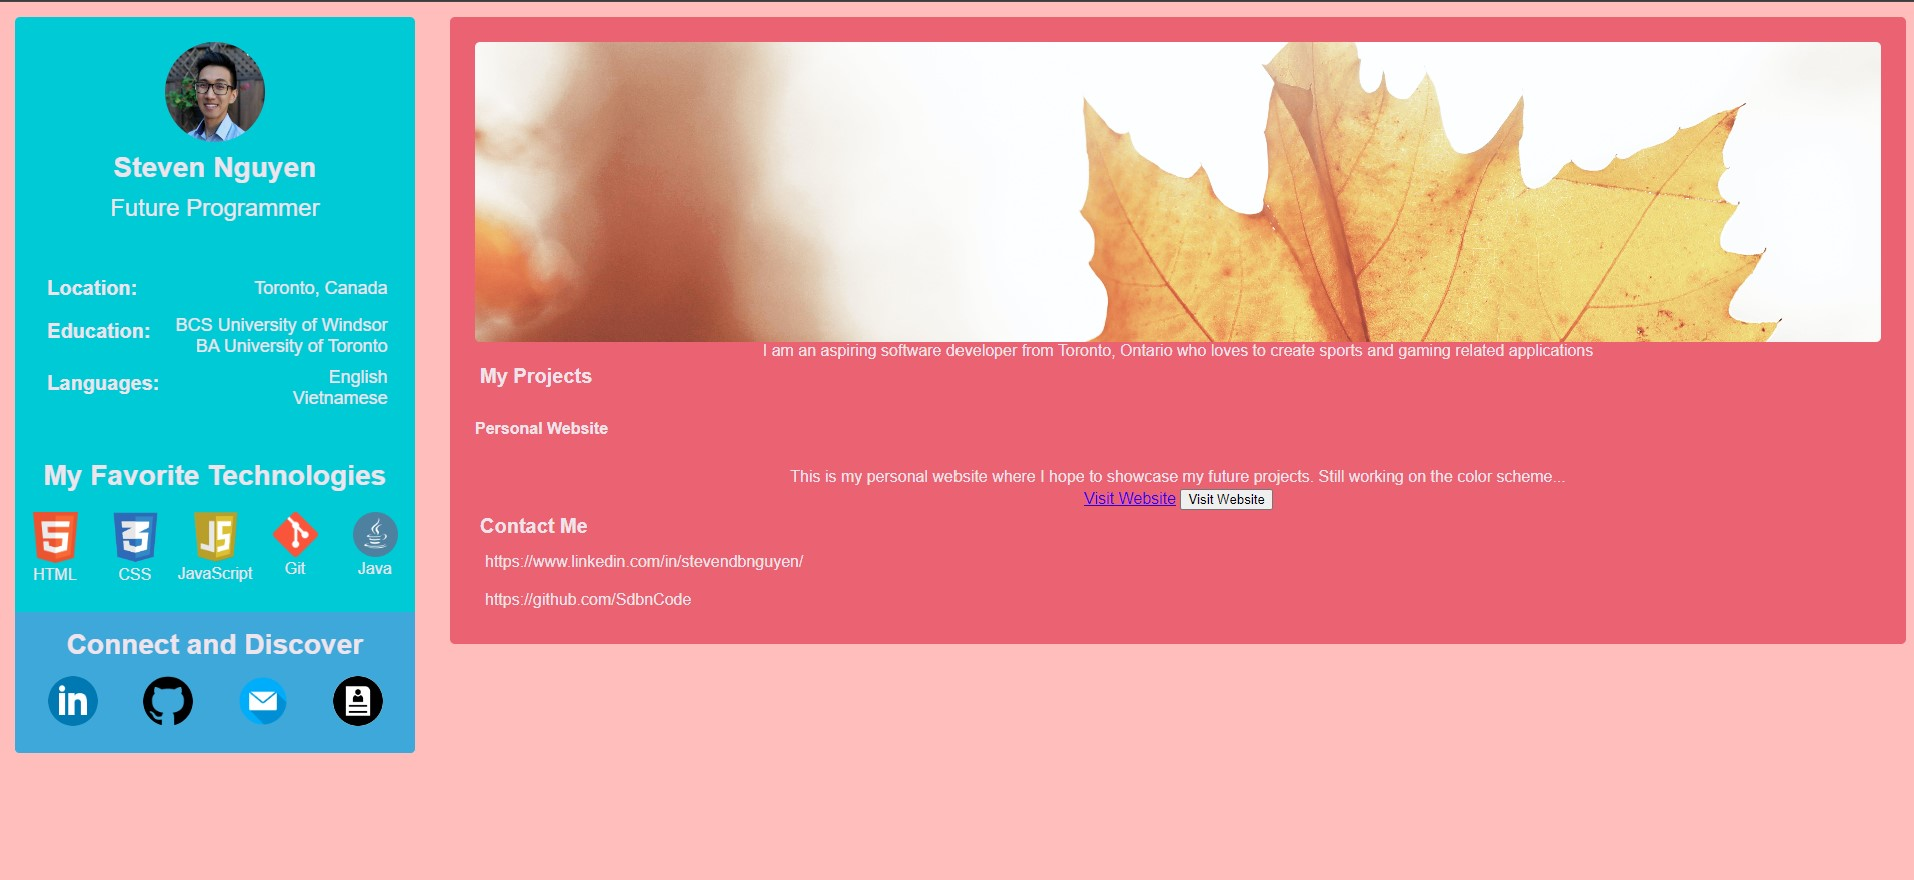
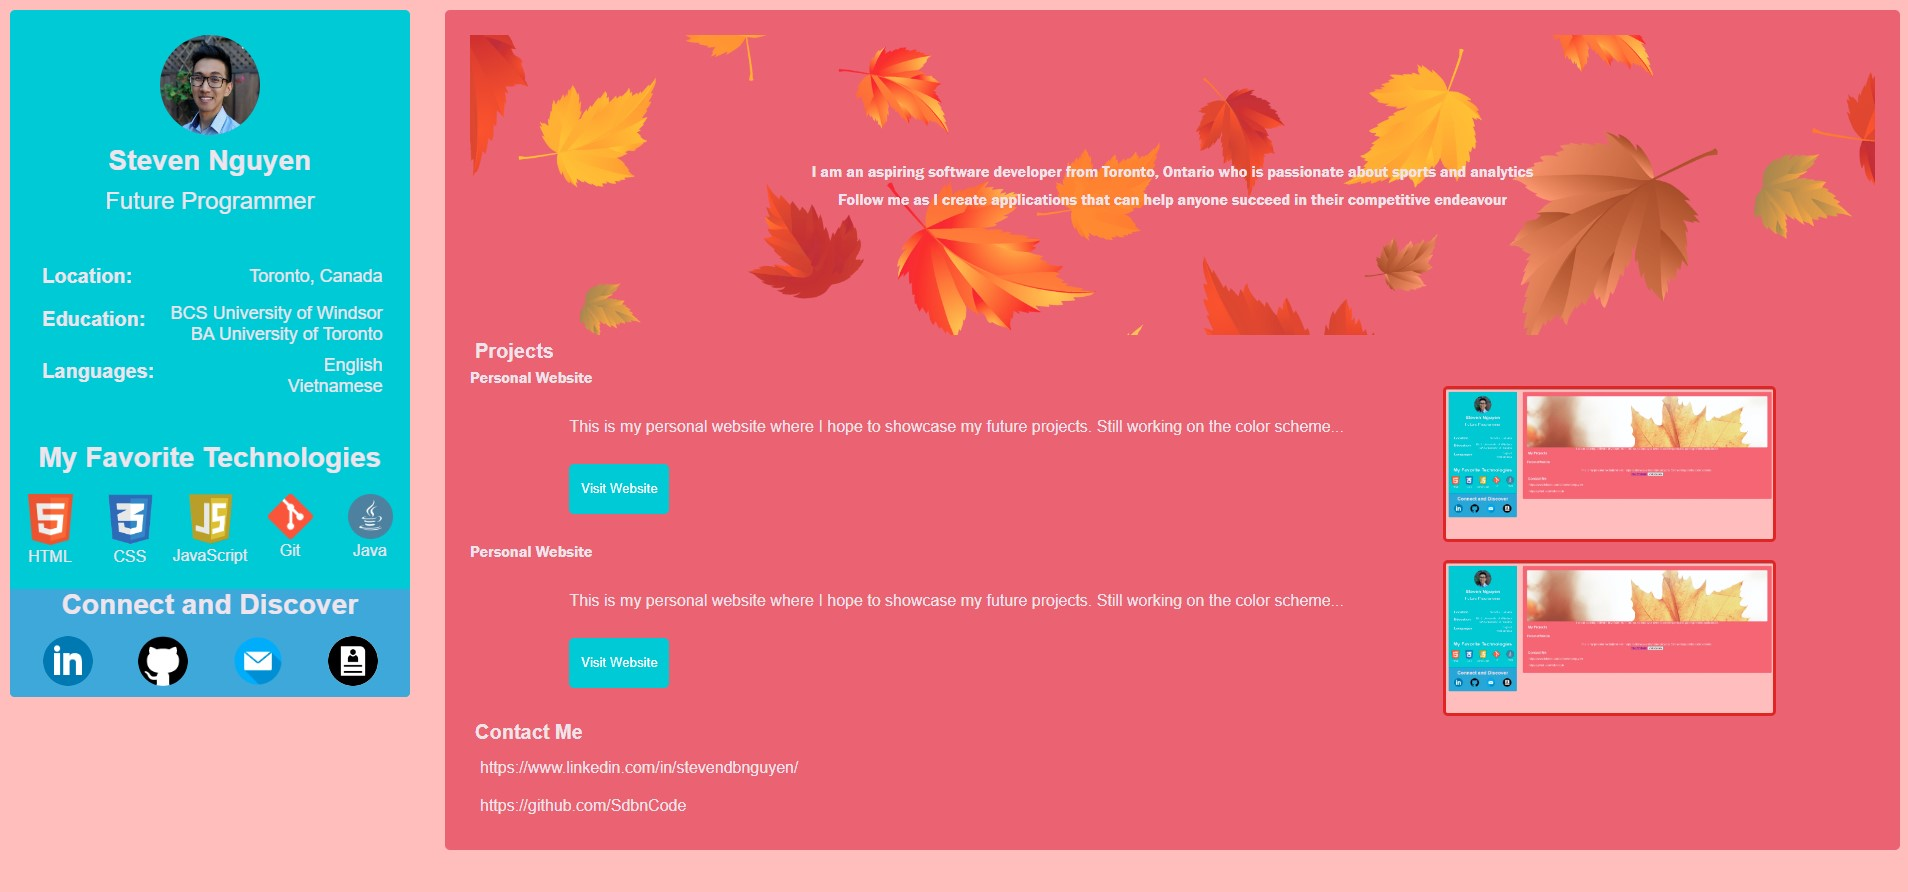
Changed website image

diff --git a/index.html b/index.html
@@ -109,15 +109,8 @@
                     <img class = "site" src="./image/website.jpg" alt="picture of website"> </img>
                     </div>
                 </div>  
+           
                 
-                <div class = "website-content">
-                    <div class = "description">
-                        <p >My personal website where I hope to showcase my future projects. Still working on the color scheme...</p>
-                        <button onclick="window.location.href='https://www.example.com/your-personal-website'" type="button">Visit Website</button>
-                    </div>
-                    <img class = "site" src="./image/website.jpg" alt="picture of website"> </img>
-                    </div>
-                </div>
         </div>
         <div class = "contact">
             <h4>Contact Me</h4>
